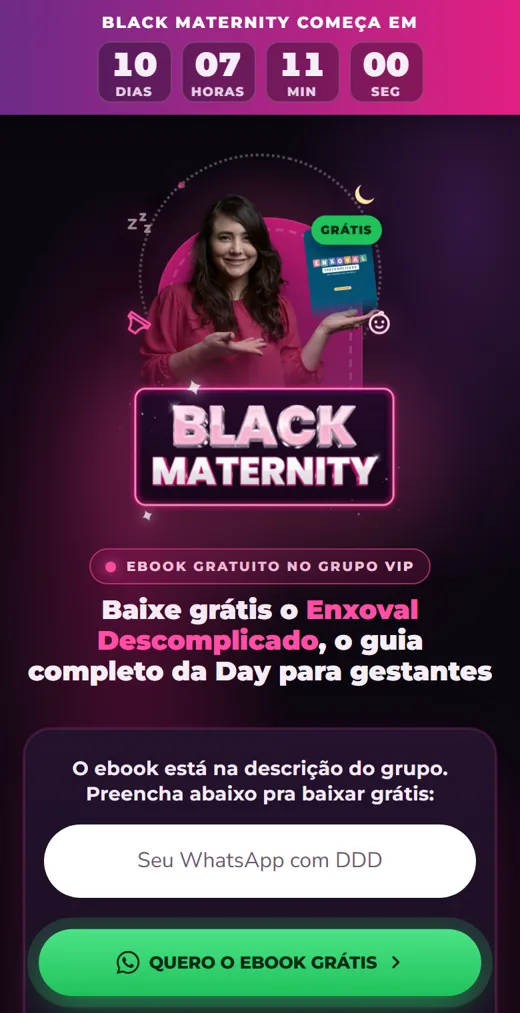
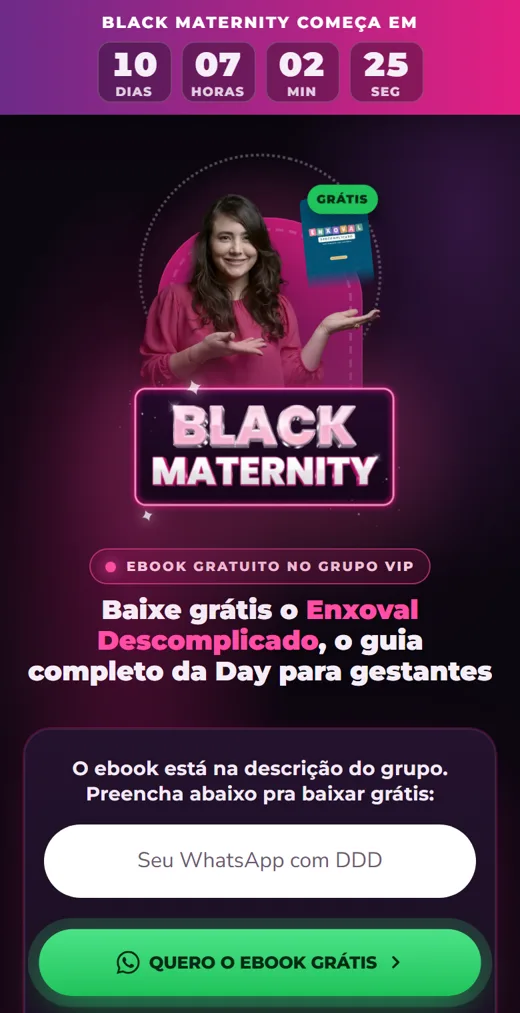
black maternity: isca ebook, ebook mais alto, foto mais clara, sem icones

diff --git a/2026-10-26-black-2026/black-maternity/versao-isca-ebook/index.html b/2026-10-26-black-2026/black-maternity/versao-isca-ebook/index.html
@@ -44,7 +44,7 @@ h2{line-height:1.2}
 .logo-placa .logo-bm{display:block;width:100%;height:auto;filter:drop-shadow(0 14px 28px rgba(0,0,0,.6)) drop-shadow(0 0 22px rgba(226,31,130,.35))}
 .hero-txt>*{min-width:0;max-width:100%}
 .portrait img.day-ebook{width:118%;max-width:none}
-.capa-ebook{position:absolute;z-index:4;left:76%;bottom:44%;width:34%;transform:rotate(-6deg);transform-origin:50% 100%;animation:capa 5s ease-in-out infinite}
+.capa-ebook{position:absolute;z-index:4;left:74%;bottom:56%;width:34%;transform:rotate(-6deg);transform-origin:50% 100%;animation:capa 5s ease-in-out infinite}
 .capa-ebook img{display:block;width:100%;height:auto;border-radius:4px 8px 8px 4px;box-shadow:-6px 0 0 -2px rgba(0,0,0,.25) inset,0 18px 34px rgba(0,0,0,.6),0 0 0 2px rgba(255,255,255,.12)}
 .capa-ebook span{position:absolute;z-index:2;top:-10px;right:-10px;background:var(--verde);color:#062b14;font-family:var(--fd);font-weight:900;font-size:.72rem;letter-spacing:.06em;text-transform:uppercase;padding:5px 10px;border-radius:999px;box-shadow:0 6px 14px rgba(0,0,0,.45);transform:rotate(6deg)}
 @keyframes capa{50%{transform:rotate(-6deg) translateY(-6px)}}
@@ -256,11 +256,6 @@ footer{padding:26px 18px calc(26px + env(safe-area-inset-bottom));text-align:cen
     <div class="lockup">
       <div class="portrait">
         <span class="halo"></span><span class="rings"></span><span class="arch"></span>
-        <svg class="cf lua" viewBox="0 0 24 24" fill="currentColor" aria-hidden="true"><path d="M20.5 14.6A8.6 8.6 0 1 1 9.4 3.5a7 7 0 0 0 11.1 11.1z"/></svg>
-        <svg class="cf zz" viewBox="0 0 24 24" fill="none" stroke="currentColor" stroke-width="2" stroke-linecap="round" stroke-linejoin="round" aria-hidden="true"><path d="M3 9h6l-6 7h6M13 4h4l-4 5h4M17 14h4l-4 5h4"/></svg>
-        <svg class="cf fralda" viewBox="0 0 24 24" fill="none" stroke="currentColor" stroke-width="2" stroke-linecap="round" stroke-linejoin="round" aria-hidden="true"><path d="M2.5 5.5h19v4.5c-3.4.3-5.6 3.3-6.2 9h-6.6c-.6-5.7-2.8-8.7-6.2-9z"/><path d="M2.5 8.5h19"/><path d="M5.5 8.5v1.6M18.5 8.5v1.6"/></svg>
-        <svg class="cf bebe" viewBox="0 0 24 24" fill="none" stroke="currentColor" stroke-width="2" stroke-linecap="round" stroke-linejoin="round" aria-hidden="true"><circle cx="12" cy="13" r="8"/><path d="M12 5c0-2.2 2.4-2.6 3.2-1.2"/><path d="M9.3 15.4c1.5 1.3 3.9 1.3 5.4 0"/><path d="M9 11.5h.01M15 11.5h.01" stroke-width="2.6"/></svg>
-        <svg class="cf cor" viewBox="0 0 24 24" fill="currentColor" aria-hidden="true"><path d="M12 21s-8-5.2-8-11a4.6 4.6 0 0 1 8-3 4.6 4.6 0 0 1 8 3c0 5.8-8 11-8 11z"/></svg>
         <img class="day-ebook" src="../../assets/day-apresentando.webp" alt="Dayane Dos Anjos apresentando o ebook" width="900" height="916">
         <div class="capa-ebook"><img src="../../assets/capa-enxoval.webp" alt="Capa do ebook Enxoval Descomplicado" width="760" height="1060"><span>Grátis</span></div>
       </div>
